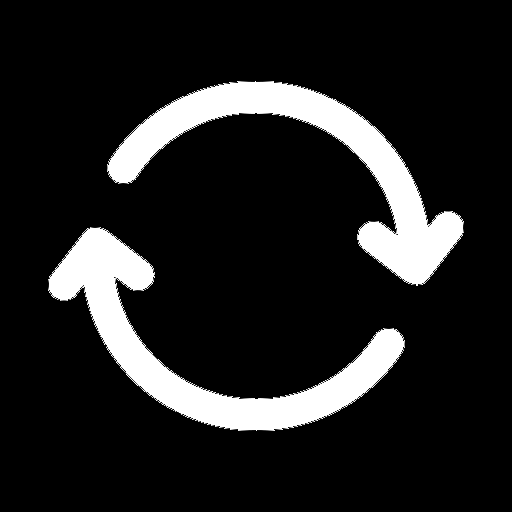
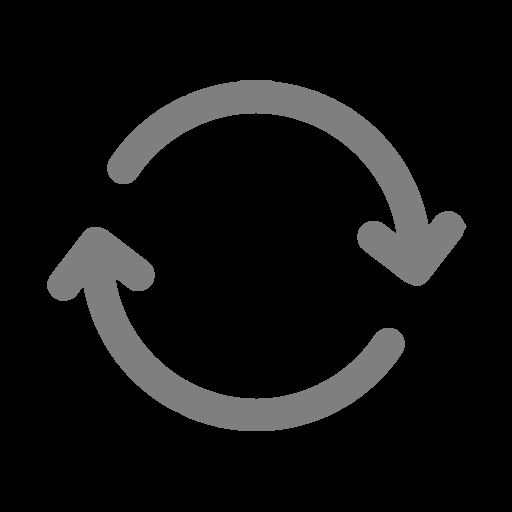
update images and buttons reposition

Changed region(s): [[0.1875, 0.1562, 0.9062, 0.5625], [0.0938, 0.4375, 0.8125, 0.8438]]

diff --git a/clases/Interface.java b/clases/Interface.java
@@ -135,6 +135,7 @@ public class Interface implements ActionListener{
 
         frame.setBounds(width / 2 - 300, height / 2 - 150, x, y);
         frame.setDefaultCloseOperation(WindowConstants.EXIT_ON_CLOSE);
+        frame.setResizable(false);
         frame.setVisible(true);
     }
 
@@ -171,8 +172,8 @@ public class Interface implements ActionListener{
         });
 
         //Refresh button
-        refresh.setIcon(imageRefreshPressed);
-        refresh.setPressedIcon(icon);
+        refresh.setIcon(iconImageRefresh);
+        refresh.setPressedIcon(iconImageRefreshPressed);
         refresh.setFocusable(false);
         refresh.setBorder(margin);
         refresh.addActionListener(new ActionListener() {
@@ -299,10 +300,12 @@ public class Interface implements ActionListener{
     private ImageIcon imageSettings = new ImageIcon(getClass().getResource("/Images/settings.png"));
     private ImageIcon imageSettingsPressed = new ImageIcon(getClass().getResource("/Images/settingsPressed.png"));
     private ImageIcon imageRefreshPressed = new ImageIcon(getClass().getResource("/Images/reload_pressed.png"));
+    Image scaleImageRefreshPressed = imageRefreshPressed.getImage().getScaledInstance(40, 40, Image.SCALE_DEFAULT); //Convierto la imagen del boton de refrescar presionado a la escala del boton
+    ImageIcon iconImageRefreshPressed = new ImageIcon(scaleImageRefreshPressed);
 
     private ImageIcon imageRefresh = new ImageIcon(getClass().getResource("/Images/reload.png"));
-    Image scaleImage = imageRefresh.getImage().getScaledInstance(40, 40,Image.SCALE_DEFAULT);   //Convierto la imagen a la escala que tiene el boton
-    ImageIcon icon = new ImageIcon(scaleImage); //Convierto a Image a tipo ImageIcon para que lo tome el boton
+    Image scaleImageRefresh = imageRefresh.getImage().getScaledInstance(40, 40,Image.SCALE_DEFAULT);   //Convierto la imagen a la escala que tiene el boton
+    ImageIcon iconImageRefresh = new ImageIcon(scaleImageRefresh); //Convierto a Image a tipo ImageIcon para que lo tome el boton
 
     private boolean flagBackground;     //Si es verdadero es un fondo con estilo, si es falso es un fondo solido
     private boolean flagLanguage;   //Si es verdadero es ingles, si es falso es español

diff --git a/clases/PanelAdd.java b/clases/PanelAdd.java
@@ -116,6 +116,7 @@ public class PanelAdd implements ActionListener {
 
         frame.setBounds(width / 2 - 150, height / 2 - 150, 300, 250);
         frame.setDefaultCloseOperation(WindowConstants.DISPOSE_ON_CLOSE);
+        frame.setResizable(false);
         frame.setVisible(true);
     }
 
@@ -128,7 +129,7 @@ public class PanelAdd implements ActionListener {
         boxAccount.setBounds(80, 70, 140, 30);
         boxPassword.setBounds(80, 120, 140, 30);
 
-        accept.setBounds(75, 170, 100, 30);
+        accept.setBounds(90, 170, 100, 30);
         accept.setFocusable(false);
         accept.addActionListener(this);
         accept.setBackground(backgroundColorTF);

diff --git a/clases/PanelUpdate.java b/clases/PanelUpdate.java
@@ -147,6 +147,7 @@ public class PanelUpdate implements ActionListener {
 
         frame.setBounds(width / 2 - 300, height / 2 - 150, 700, 300);
         frame.setDefaultCloseOperation(WindowConstants.DISPOSE_ON_CLOSE);
+        frame.setResizable(false);
         frame.setVisible(true);
     }
 

diff --git a/clases/PanelDelete.java b/clases/PanelDelete.java
@@ -97,6 +97,7 @@ public class PanelDelete implements ActionListener {
 
         frame.setBounds(width / 2 - 150, height / 2 - 150, 350, 250);
         frame.setDefaultCloseOperation(WindowConstants.DISPOSE_ON_CLOSE);
+        frame.setResizable(false);
         frame.setVisible(true);
     }
 

diff --git a/clases/Settings.java b/clases/Settings.java
@@ -79,6 +79,7 @@ public class Settings implements ActionListener {
 
         frame.setBounds(width / 2 - 150, height / 2 - 150, 350, 300);
         frame.setDefaultCloseOperation(WindowConstants.DISPOSE_ON_CLOSE);
+        frame.setResizable(false);
         frame.setVisible(true);
     }
 

diff --git a/clases/LoginPanel.java b/clases/LoginPanel.java
@@ -70,6 +70,7 @@ public class LoginPanel implements ActionListener{
 
         frame.setBounds(width / 2 - 150, height / 2 - 150, 300, 250);
         frame.setDefaultCloseOperation(WindowConstants.EXIT_ON_CLOSE);
+        frame.setResizable(false);
         frame.setVisible(true);
     }
 
